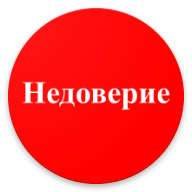
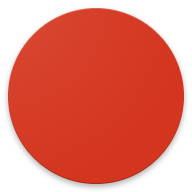
color-update

diff --git a/blagodarie/code.js b/blagodarie/code.js
@@ -536,8 +536,7 @@ d3.json(apiUrl)
 
 		var activeTrust = `${settings.url}images/trust_active.png`;
 		var activeMistrust = `${settings.url}images/mistrust_active.png`;
-		var inactiveTrust = `${settings.url}images/trust_inactive.png`;
-		var inactiveMistrust = `${settings.url}images/mistrust_inactive.png`;
+		var inactiveButton = `${settings.url}images/inactive_button.png`;
 
 		isConnection ? isTrust = data.connections.some(link => link.source == PROFILE.id && link.target == userIdFrom && link.is_trust) : null;
 
@@ -545,14 +544,14 @@ d3.json(apiUrl)
 		nodes.push({
 			id: TRUST_ID,
 			text: "Доверие",
-			image: !isConnection ? inactiveTrust : isTrust ? activeTrust : inactiveTrust,
+			image: !isConnection ? inactiveButton : isTrust ? activeTrust : inactiveButton,
 			nodeType: NODE_TYPES.TRUST
 		});
 
 		nodes.push({
 			id: MISTRUST_ID,
 			text: "Недоверие",
-			image: !isConnection ? inactiveMistrust : isTrust ? inactiveMistrust : activeMistrust,
+			image: !isConnection ? inactiveButton : isTrust ? inactiveButton : activeMistrust,
 			nodeType: NODE_TYPES.MISTRUST
 		});
 	}
